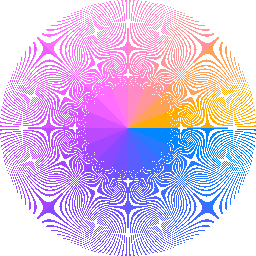
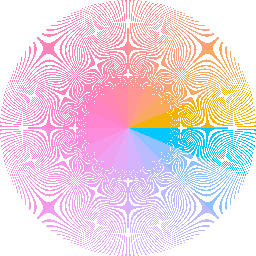
Use RGBA, tune gradient

diff --git a/src/graphics.rs b/src/graphics.rs
@@ -20,12 +20,12 @@ use palette::{Gradient, Lch, Srgb};
 /// This scale has high distinguishability.
 pub fn scale_temperature(mut scalar: f32, n_chunks: f32) -> [f32; 4] {
     scalar = (scalar * n_chunks).floor() / (n_chunks - 1.0);
-    let lightness = 70.0;
-    let chroma = 90.0;
+    let lightness = 60.0;
+    let chroma = 80.0;
     match Srgb::from(
         Gradient::new(vec![
-            Lch::new(lightness, chroma, 60.0),
             Lch::new(lightness, chroma, 280.0),
+            Lch::new(lightness, chroma, 60.0),
         ])
         .get(scalar),
     )
@@ -579,6 +579,8 @@ pub fn capture<R: Render>(render: R, viewport: Box2DData, path: std::path::PathB
         limits: wgpu::Limits::default(),
     });
 
+    let texture_format = TextureFormat::Rgba8UnormSrgb;
+
     let vs_bytes = Vec::from(include_bytes!("spirv/vert.spirv") as &[u8]);
     let fs_bytes = Vec::from(include_bytes!("spirv/frag.spirv") as &[u8]);
 
@@ -631,7 +633,7 @@ pub fn capture<R: Render>(render: R, viewport: Box2DData, path: std::path::PathB
         },
         primitive_topology: wgpu::PrimitiveTopology::TriangleList,
         color_states: &[wgpu::ColorStateDescriptor {
-            format: wgpu::TextureFormat::Bgra8Unorm,
+            format: texture_format,
             color_blend: wgpu::BlendDescriptor {
                 src_factor: wgpu::BlendFactor::SrcAlpha,
                 dst_factor: wgpu::BlendFactor::OneMinusSrcAlpha,
@@ -684,7 +686,7 @@ pub fn capture<R: Render>(render: R, viewport: Box2DData, path: std::path::PathB
         mip_level_count: 1,
         sample_count: 1,
         dimension: wgpu::TextureDimension::D2,
-        format: wgpu::TextureFormat::Bgra8Unorm,
+        format: texture_format,
         usage: wgpu::TextureUsage::STORAGE,
     });
     let texture_view = texture.create_default_view();
@@ -701,7 +703,7 @@ pub fn capture<R: Render>(render: R, viewport: Box2DData, path: std::path::PathB
     let font: &[u8] =
         include_bytes!("font/cooper-hewitt-fixed-for-windows-master/CooperHewitt-Semibold.ttf");
     let mut glyph_brush =
-        GlyphBrushBuilder::using_font_bytes(font).build(&mut device, TextureFormat::Bgra8Unorm);
+        GlyphBrushBuilder::using_font_bytes(font).build(&mut device, texture_format);
 
     let command_buffer = {
         let mut encoder =

diff --git a/src/main.rs b/src/main.rs
@@ -262,7 +262,7 @@ fn main() {
 
     let stations_2 = stations.clone();
 
-    let n_zones = 8;
+    let n_zones = 6;
 
     let time_to_color = |time| scale_temperature(1.0 - (time - 10.0) / 40.0, n_zones as f32);
 
